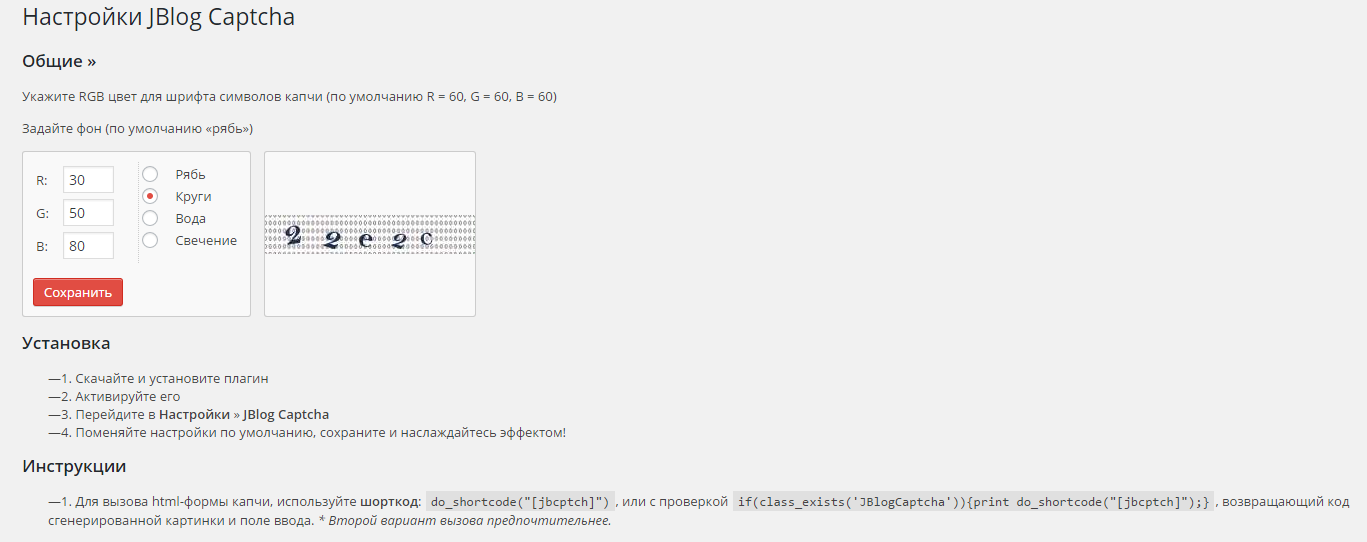
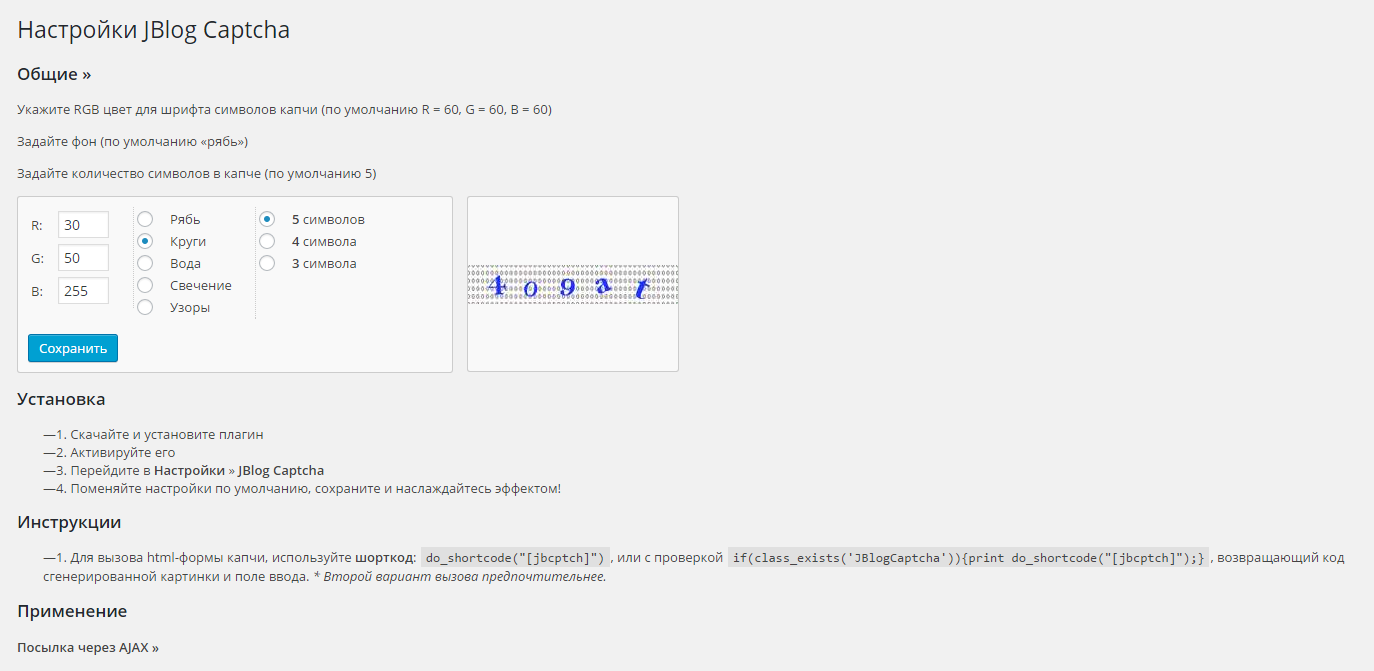
Adding JBlog Captcha Version 1.1
git-svn-id: https://plugins.svn.wordpress.org/jblog-captcha/trunk@1156543 b8457f37-d9ea-0310-8a92-e5e31aec5664

Changed region(s): [[0.0, 0.0886, 0.9832, 0.9742], [0.0, 0.0, 0.2151, 0.059]]

diff --git a/jblog-captcha.php b/jblog-captcha.php
@@ -1,7 +1,7 @@
 <?php
 /*
 Plugin Name: JBlog Captcha
-Version: 1.0
+Version: 1.1
 Description: Генерируемая капча из цифр и латинских символов. Предназначена только для использования в пользовательских формах и выводится простым шорткодом. Инструкции по использованию: Настройки — JBlog Captcha.
 Plugin URI: http://jblog-project.ru/kapcha-v-polzovatelskix-formax/
 Author: JBlog
@@ -134,12 +134,27 @@ if (!class_exists('JBlogCaptcha')) {
             return $this->data['bg'];
         }
 
+        /* Get num char of CAPTCHA
+         * -------------
+         * Получить кол-во символов в капче, по умолчанию 5
+         * */
+        function getNum()
+        {
+            if (get_option(self::JBC . '_num')) {
+                $this->data['num'] = get_option(self::JBC . '_num');
+            } else {
+                $this->data['num'] = 5;
+            }
+            return $this->data['num'];
+        }
+
         /*
          * Generate random string
          * */
-        function getRndString()
+        function getRndString($n)
         {
-            return substr(md5(substr(md5(time() / sqrt(rand(1, 9999))), rand(0, 5), 10)), rand(0, 5), 5);
+            $base = array('A','a','B','b','C','c','D','d','E','e','F','f','G','g','H','h','I','i','J','j','K','k','L','l','M','m','N','n','O','o','P','p','Q','q','R','r','S','s','T','t','U','u','V','v','W','w','X','x','Y','y','Z','z','1','2','3','4','5','6','7','8','9','0');
+            return substr(md5(substr(md5(time() / sqrt(rand(1, 9999))), rand(0, 5), 10)), rand(0, 5), $n-3).$base[rand(0,20)].$base[rand(21,41)].$base[rand(41,61)];
         }
 
         /* compare value in this session and value user
@@ -186,17 +201,17 @@ if (!class_exists('JBlogCaptcha')) {
             <div id="jbcptcha_div">
                 <div id="generate-jbcptcha">
                     <?php /* Генератор картинки */ ?>
-                    <?php $generate = $this->generateImage();
+                    <?php $generate = $this->generateImage('captcha');
                     if ($generate) {
                         ?>
-                        <img src="<?php echo $this->plugin_url; ?>assets/img/captcha.jpg">
+                        <img src="<?php echo $this->plugin_url; ?>assets/img/<?php echo $generate; ?>.jpg">
                     <?php
+                    }else{
+                        echo "Произошла ошибка при загрузке изображения..";
                     }
                     ?>
-                    <?php $this->deleteImage(); ?>
                 </div>
                 <br>
-
                 <div id="jbcptcha_settings">
                     <label>Введите символы</label>
                     <input id="jbcptcha_input" type="text" name="str" size="8" maxlength="5" autocomplete="off">
@@ -212,15 +227,15 @@ if (!class_exists('JBlogCaptcha')) {
         /*
          * Generate and save img
          * */
-        function generateImage()
+        function generateImage($string)
         {
             session_start();
-            $c = 5;
+            $c = $this->getNum();
             $bg = $this->getBg();
             $i = $this->LoadJpeg($this->plugin_url . 'assets/img/' . $bg . '.jpg');
             $color = $this->setColor($i, $this->getColorRed(), $this->getColorGreen(), $this->getColorBlue());
             imageantialias($i, true);
-            $str = $this->getRndString();
+            $str = $this->getRndString($c);
             $_SESSION['str'] = $str;
             $x = 20;
             $y = 30;
@@ -231,20 +246,12 @@ if (!class_exists('JBlogCaptcha')) {
                 imagettftext($i, $size, $angle, $x, $y, $color, $this->plugin_dir . 'assets/fonts/bellb.ttf', $str[$j]);
                 $x += $offsetX;
             }
-            $path = $this->plugin_dir . 'assets/img/captcha.jpg';
+            $path = $this->plugin_dir . 'assets/img/'.$string.'.jpg';
             $save = imagejpeg($i, $path, 50);
             $del = imagedestroy($i);
             if ($save && $del)
-                return true;
+                return $string;
             return false;
-        }
-
-        /*
-         * delete img file
-         * */
-        function deleteImage()
-        {
-            return unlink($this->plugin_url . 'assets/img/captcha.jpg');
         }
 
         /*
@@ -352,6 +359,10 @@ if (!class_exists('JBlogCaptcha')) {
                         $this->data['bg'] = $_POST['getbg'];
                         update_option(self::JBC . '_bg', $this->data['bg']);
                     }
+                    if (isset($_POST['getnum']) && "" != $_POST['getnum']) {
+                        $this->data['num'] = $_POST['getnum'];
+                        update_option(self::JBC . '_num', $this->data['num']);
+                    }
                 }
             }
             include $this->plugin_dir . 'include/admin.php';
@@ -382,7 +393,7 @@ if (!class_exists('JBlogCaptcha')) {
             delete_option(self::JBC . '_color');
             delete_option(self::JBC . '_bg');
             delete_option(self::JBC . '_is');
-
+            delete_option(self::JBC . '_num');
         }
 
         /*
@@ -403,7 +414,7 @@ if (!class_exists('JBlogCaptcha')) {
             delete_option(self::JBC . '_color');
             delete_option(self::JBC . '_bg');
             delete_option(self::JBC . '_is');
-
+            delete_option(self::JBC . '_num');
         }
     }
 }

diff --git a/include/admin.php b/include/admin.php
@@ -4,15 +4,10 @@
         margin-bottom: 15px;
     }
 
-    #tbl_setting table:last-child {
-        float: right;
-        padding-left: 20px;
-    }
-
     #color_generation {
         overflow: hidden;
         padding: 10px;
-        width: 17%;
+        width: 30%;
         background: #f9f9f9;
         border: 1px solid #ccc;
         -webkit-border-radius: 3px;
@@ -24,7 +19,8 @@
     #demo {
         width: 210px;
         height: 174px;
-        margin-left: 20.5%;
+        margin-left: 1%;
+        float: left;
         background: #f9f9f9;
         border: 1px solid #ccc;
         -webkit-border-radius: 3px;
@@ -50,6 +46,8 @@
 
     <p>Задайте фон (по умолчанию «рябь»)</p>
 
+    <p>Задайте количество символов в капче (по умолчанию 5)</p>
+
     <form id="color_generation" action="" method="post">
         <div id="tbl_setting">
             <table style="border-right: 1px dotted #ccc;
@@ -70,7 +68,8 @@
                                value="<?php echo $obj_admin->getColorBlue(); ?>"/></td>
                 </tr>
             </table>
-            <table>
+            <table style="border-right: 1px dotted #ccc;
+                          padding-right: 20px;">
                 <tr>
                     <td><input type="radio" name="getbg" id="getbg" value="bg" <?php if ($obj_admin->getBg() == 'bg') {
                             echo "checked";
@@ -106,19 +105,49 @@
                     <td>Узоры</td>
                 </tr>
             </table>
+            <table>
+                <tr>
+                    <td>
+                        <input type="radio" name="getnum" id="getnum"
+                               value="5" <?php if ($obj_admin->getNum() == 5) {
+                            echo "checked";
+                        } ?>>
+                    </td>
+                    <td><strong>5</strong> символов</td>
+                </tr>
+                <tr>
+                    <td>
+                        <input type="radio" name="getnum" id="getnum1"
+                               value="4" <?php if ($obj_admin->getNum() == 4) {
+                            echo "checked";
+                        } ?>>
+                    </td>
+                    <td><strong>4</strong> символа</td>
+                </tr>
+                <tr>
+                    <td>
+                        <input type="radio" name="getnum" id="getnum2"
+                               value="3" <?php if ($obj_admin->getNum() == 3) {
+                            echo "checked";
+                        } ?>>
+                    </td>
+                    <td><strong>3</strong> символа</td>
+                </tr>
+            </table>
         </div>
         <div style="clear: both;"></div>
         <input type="submit" class="button-primary" name="jb_submit" value="Сохранить"/>
     </form>
     <div id="demo">
-        <?php $generate = $obj_admin->generateImage();
+        <?php $generate = $obj_admin->generateImage('captcha');
         if ($generate) {
             ?>
-            <img style="padding: 68px 0;" src="<?php echo $obj_admin->plugin_url; ?>assets/img/captcha.jpg">
+            <img style="padding: 68px 0;" src="<?php echo $obj_admin->plugin_url; ?>assets/img/<?php echo $generate; ?>.jpg">
         <?php
+        }else{
+            echo "Произошла ошибка при загрузке изображения..";
         }
         ?>
-        <?php $obj_admin->deleteImage(); ?>
     </div>
     <div style="clear: both;"></div>
     <div>
